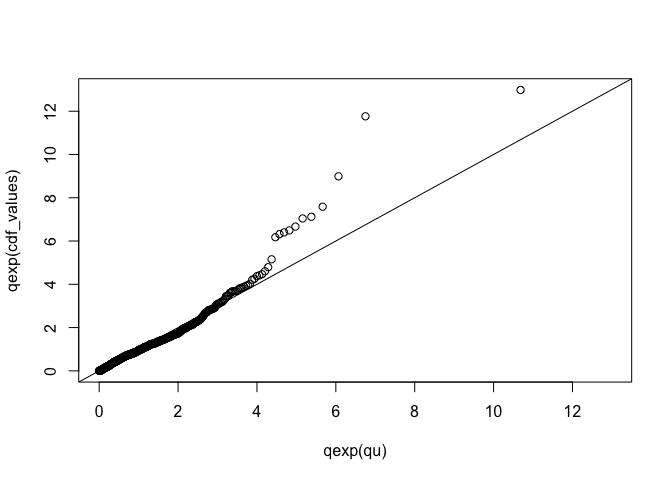
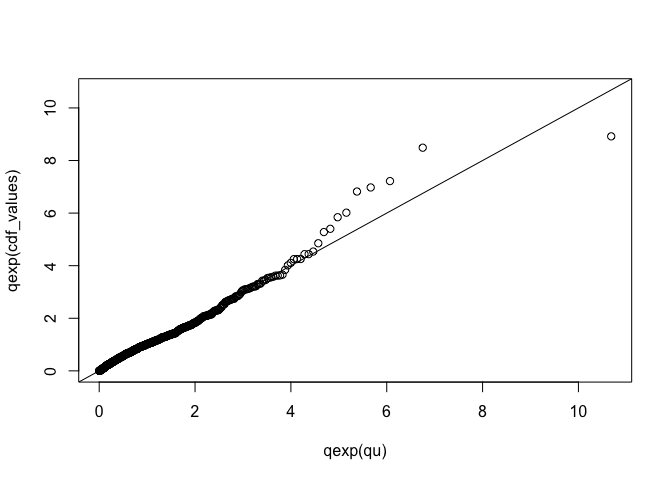
updated readme

diff --git a/README.md b/README.md
@@ -37,7 +37,7 @@ y <- matrix ( dataset$price, ncol = 1)
 
 x <- as.matrix(dataset[, c('bedrooms', 'batchrooms', 'squareFeet', 'lon', 'lat')])
 
-data <- preprocessing.data(x, y, n.knots = 25, testing_ratio = 0.2, valid_ratio = 0.2)
+data <- preprocessing_data(x, y, testing_ratio = 0.2, valid_ratio = 0.2)
 
 x_training <- data$x_training
 x_validation <- data$x_validation
@@ -52,7 +52,7 @@ p_b = 0.999
 c1 = 30
 c2 = 5
 
-hyperparameter <- create.packages.hyperparameter(p_a = p_a , p_b = p_b , c1 = c1, c2 = c2)
+hyperparameter <- create_packages_hyperparameter(p_a = p_a , p_b = p_b , c1 = c1, c2 = c2)
 
 model.heavy <- fit_spqrx(input_dim = 5, hidden_dim = c(45 , 45), n.knots = 25, x_training = x_training, 
                    x_validation = x_validation, y_training = y_training, y_validation = y_validation,
@@ -61,7 +61,7 @@ model.heavy <- fit_spqrx(input_dim = 5, hidden_dim = c(45 , 45), n.knots = 25, x
 
 ``` r
 # evaluate model fit
-eval.plot.qexp(model.heavy, x_testing, y_testing)
+eval_plot_qexp(model.heavy, x_testing, y_testing)
 ```
 
 <img src="man/figures/README-unnamed-chunk-4-1.png" width="100%" />